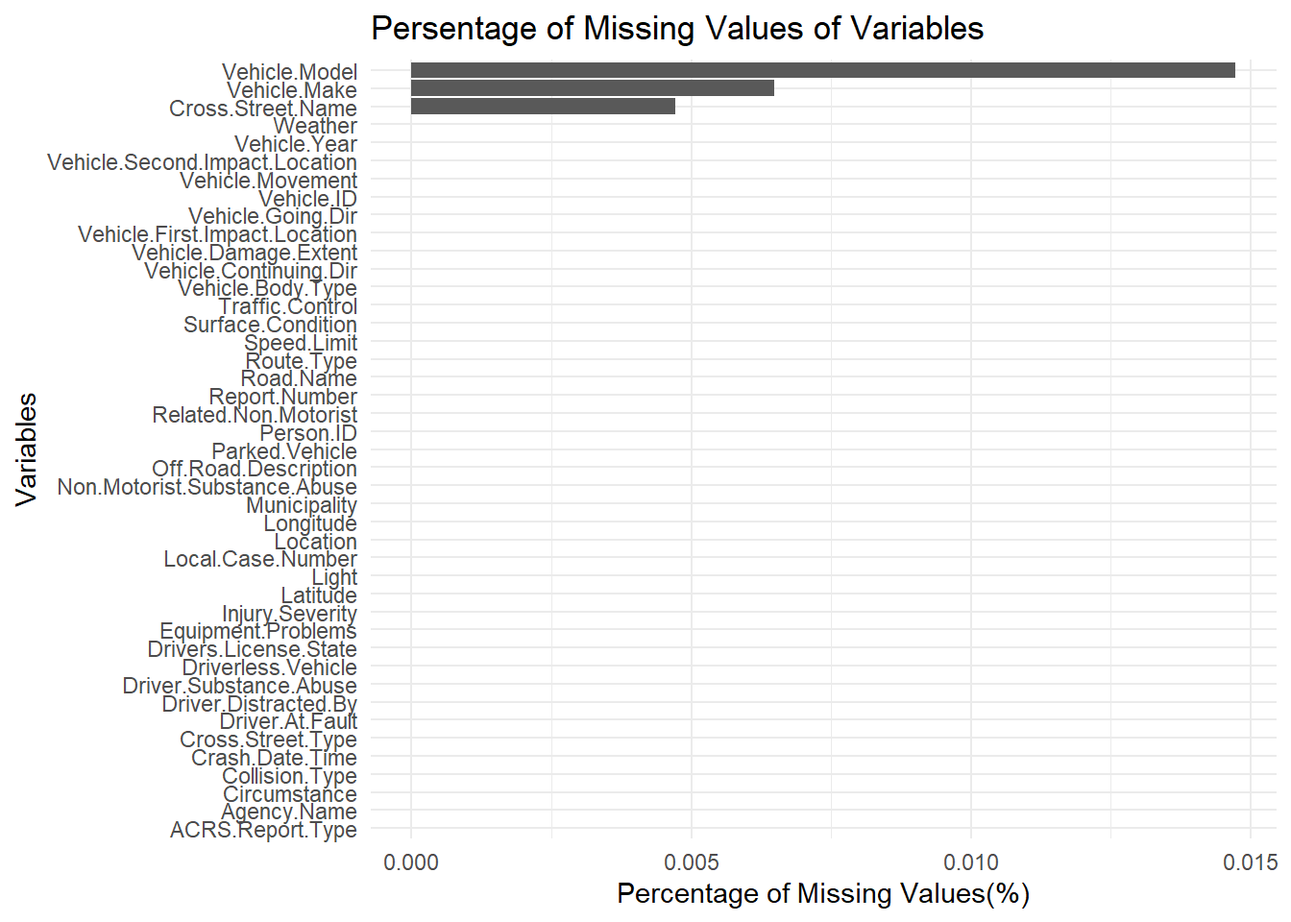
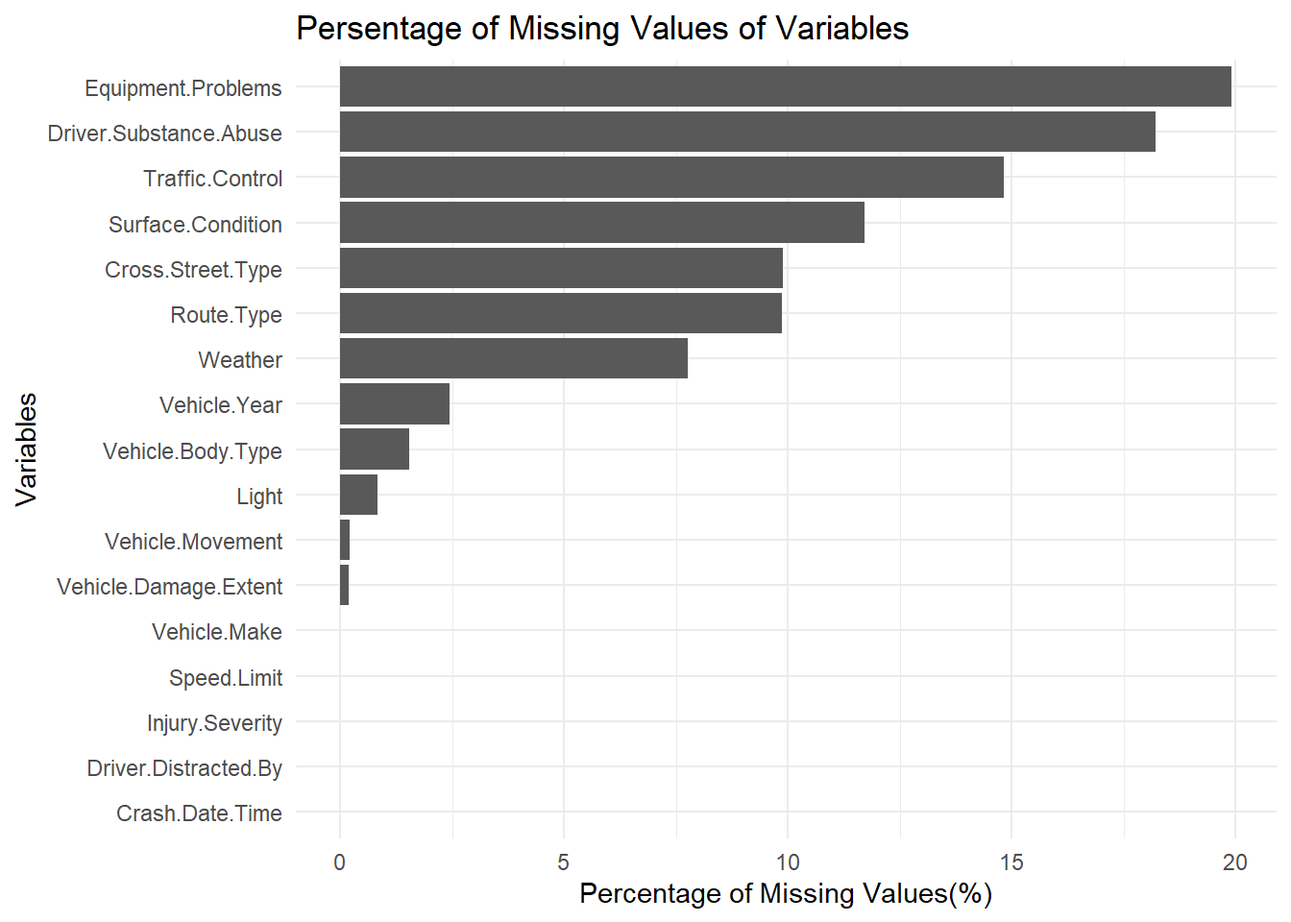
finish missing value analysis part~

diff --git a/docs/data.html b/docs/data.html
@@ -207,12 +207,12 @@ pre > code.sourceCode > span > a:first-child::before { text-decoration: underlin
 <p>For the proposed project, we plan to utilize a dataset called <em>Crash Reporting - Drivers Data</em> from DATA.GOV, available at <a href="https://catalog.data.gov/dataset/crash-reporting-drivers-data" class="uri">https://catalog.data.gov/dataset/crash-reporting-drivers-data</a>. This dataset is published and maintained by data.montgomerycountymd.gov and is updated weekly for analysis.</p>
 <p>The data collection process involves several local law enforcement agencies within Montgomery County, including the Montgomery County Police, Gaithersburg Police, Rockville Police, and the Maryland-National Capital Park Police. These agencies contribute to the Automated Crash Reporting System (ACRS) of the Maryland State Police, which compiles the data.</p>
 <p>The dataset comprises 169,760 rows and 43 columns. For our project, we have chosen the CSV format of the dataset. Meanwhile, other formats of the data such as RDF, JSON, XML, and a landing page format are also available on the source website. One significant aspect about the data is that it includes comprehensive details of vehicle conditions and road conditions in the reported traffic collisions.</p>
-<p>However, a known issue with the dataset is that it contains both verified and unverified collision data. Such discrepancies can lead to biases or inaccuracies in analyzing and interpreting different variables. Another potential issue of the data after examination was the mismatch between the <em>ACRS Report Type</em> and the <em>Injury Severity</em> columns. For example, an incident was classified as <em>Injury Crash</em> in the <em>ACRS Report Type</em> but in the <em>Injury Severity</em> it is marked as <em>NO APPARENT INJURY</em>. Such mismatches lead us to the decision of using <em>Injury Severity</em> as it provides more specific and accurate information about the car crash.</p>
+<p>However, a known issue with the dataset is that it contains both verified and unverified collision data. Such discrepancies can lead to biases or inaccuracies in analyzing and interpreting different variables. Another potential issue of the data after examination was the mismatch between the <em>ACRS Report Type</em> and the <em>Injury Severity</em> columns. For example, an incident was classified as <em>Injury Crash</em> in the <em>ACRS Report Type</em> but in the <em>Injury Severity</em> it is marked as <em>NO APPARENT INJURY</em>. Such mismatches lead us to the decision of using <em>Injury Severity</em> as it provides more specific and accurate information about the car crash. Also, in <em>Vehicle Year</em> column, there are abnormal data value such as <em>0</em>, <em>9999</em>, <em>2024</em>. These are likely to be incorrect values due to manual input or missing data, so we choose to treat those abnormal data as missing value.</p>
 <p>To import the dataset into an R environment for analysis, we will use the following R script:</p>
 <div class="cell">
 <details>
 <summary>Code</summary>
-<div class="sourceCode cell-code" id="cb1"><pre class="sourceCode r code-with-copy"><code class="sourceCode r"><span id="cb1-1"><a href="#cb1-1" aria-hidden="true" tabindex="-1"></a>data <span class="ot">&lt;-</span> <span class="fu">read.csv</span>(<span class="st">"data/Crash_Reporting_-_Drivers_Data.csv"</span>, <span class="at">header =</span> <span class="cn">TRUE</span>, <span class="at">sep=</span><span class="st">","</span>)</span>
+<div class="sourceCode cell-code" id="cb1"><pre class="sourceCode r code-with-copy"><code class="sourceCode r"><span id="cb1-1"><a href="#cb1-1" aria-hidden="true" tabindex="-1"></a>data <span class="ot">&lt;-</span> <span class="fu">read.csv</span>(<span class="st">"data/Crash_Reporting_-_Drivers_Data.csv"</span>, <span class="at">header =</span> <span class="cn">TRUE</span>, <span class="at">sep=</span><span class="st">","</span>,<span class="at">na.strings=</span><span class="fu">c</span>(<span class="st">""</span>,<span class="st">"N/A"</span>))</span>
 <span id="cb1-2"><a href="#cb1-2" aria-hidden="true" tabindex="-1"></a><span class="fu">head</span>(data)</span></code><button title="Copy to Clipboard" class="code-copy-button"><i class="bi"></i></button></pre></div>
 </details>
 <div class="cell-output cell-output-stdout">
@@ -224,40 +224,40 @@ pre > code.sourceCode > span > a:first-child::before { text-decoration: underlin
 5    EJ78520081         230033429 Gaithersburg Police Depar
 6   MCP3163005L         230035071  Montgomery County Police
        ACRS.Report.Type        Crash.Date.Time       Route.Type
-1 Property Damage Crash 05/31/2019 03:00:00 PM                 
-2 Property Damage Crash 05/24/2019 05:00:00 PM                 
+1 Property Damage Crash 05/31/2019 03:00:00 PM             &lt;NA&gt;
+2 Property Damage Crash 05/24/2019 05:00:00 PM             &lt;NA&gt;
 3 Property Damage Crash 07/17/2023 10:45:00 AM           County
 4 Property Damage Crash 07/20/2023 11:40:00 PM Maryland (State)
 5 Property Damage Crash 07/13/2023 05:40:00 PM     Municipality
 6 Property Damage Crash 07/23/2023 03:55:00 PM Maryland (State)
           Road.Name Cross.Street.Type      Cross.Street.Name
-1                                                           
-2                                                           
+1              &lt;NA&gt;              &lt;NA&gt;                   &lt;NA&gt;
+2              &lt;NA&gt;              &lt;NA&gt;                   &lt;NA&gt;
 3      SELFRIDGE RD            County            RANDOLPH RD
 4 MUNCASTER MILL RD            County         SHADY GROVE RD
 5        PERRY PKWY           Unknown ENT TO SHOPPING CENTER
 6    ROCKVILLE PIKE            County           GROSVENOR LA
             Off.Road.Description Municipality Related.Non.Motorist
-1 PARKING LOT OF 3215 SPARTAN RD                                  
-2                    PARKING LOT                                  
-3                                         N/A                     
-4                                         N/A                     
-5                                         N/A                     
-6                                         N/A                     
+1 PARKING LOT OF 3215 SPARTAN RD         &lt;NA&gt;                 &lt;NA&gt;
+2                    PARKING LOT         &lt;NA&gt;                 &lt;NA&gt;
+3                           &lt;NA&gt;         &lt;NA&gt;                 &lt;NA&gt;
+4                           &lt;NA&gt;         &lt;NA&gt;                 &lt;NA&gt;
+5                           &lt;NA&gt;         &lt;NA&gt;                 &lt;NA&gt;
+6                           &lt;NA&gt;         &lt;NA&gt;                 &lt;NA&gt;
      Collision.Type Weather Surface.Condition          Light Traffic.Control
-1             OTHER   CLEAR                         DAYLIGHT             N/A
-2               N/A   CLEAR                         DAYLIGHT             N/A
+1             OTHER   CLEAR              &lt;NA&gt;       DAYLIGHT            &lt;NA&gt;
+2              &lt;NA&gt;   CLEAR              &lt;NA&gt;       DAYLIGHT            &lt;NA&gt;
 3             OTHER   CLEAR               DRY DARK LIGHTS ON  TRAFFIC SIGNAL
-4             OTHER     N/A               DRY DARK LIGHTS ON  TRAFFIC SIGNAL
-5 SAME DIR REAR END     N/A               DRY       DAYLIGHT     NO CONTROLS
+4             OTHER    &lt;NA&gt;               DRY DARK LIGHTS ON  TRAFFIC SIGNAL
+5 SAME DIR REAR END    &lt;NA&gt;               DRY       DAYLIGHT     NO CONTROLS
 6 SAME DIR REAR END   CLEAR               DRY       DAYLIGHT  TRAFFIC SIGNAL
   Driver.Substance.Abuse Non.Motorist.Substance.Abuse
-1                UNKNOWN                             
-2                    N/A                             
-3                UNKNOWN                             
-4                    N/A                             
-5                    N/A                             
-6                    N/A                             
+1                UNKNOWN                         &lt;NA&gt;
+2                   &lt;NA&gt;                         &lt;NA&gt;
+3                UNKNOWN                         &lt;NA&gt;
+4                   &lt;NA&gt;                         &lt;NA&gt;
+5                   &lt;NA&gt;                         &lt;NA&gt;
+6                   &lt;NA&gt;                         &lt;NA&gt;
                              Person.ID Driver.At.Fault    Injury.Severity
 1 DE2A24CD-7919-4F8D-BABF-5B75CE12D21E             Yes NO APPARENT INJURY
 2 6208FA7B-5DC4-4B54-AD60-0C06DFE2AE81             Yes NO APPARENT INJURY
@@ -266,12 +266,12 @@ pre > code.sourceCode > span > a:first-child::before { text-decoration: underlin
 5 3C7F6951-1701-44DC-9824-88DF4E32352E             Yes NO APPARENT INJURY
 6 A06FADE9-E491-4584-BF35-6206D3D4CE09              No NO APPARENT INJURY
   Circumstance           Driver.Distracted.By Drivers.License.State
-1          N/A                        UNKNOWN                      
-2          N/A                 NOT DISTRACTED                    XX
-3          N/A INATTENTIVE OR LOST IN THOUGHT                    MD
-4          N/A                 NOT DISTRACTED                    MD
-5          N/A         LOOKED BUT DID NOT SEE                    MD
-6          N/A                 NOT DISTRACTED                    MD
+1         &lt;NA&gt;                        UNKNOWN                  &lt;NA&gt;
+2         &lt;NA&gt;                 NOT DISTRACTED                    XX
+3         &lt;NA&gt; INATTENTIVE OR LOST IN THOUGHT                    MD
+4         &lt;NA&gt;                 NOT DISTRACTED                    MD
+5         &lt;NA&gt;         LOOKED BUT DID NOT SEE                    MD
+6         &lt;NA&gt;                 NOT DISTRACTED                    MD
                             Vehicle.ID Vehicle.Damage.Extent
 1 165AD539-A8C8-4004-AF73-B7DCAAA8B3CC           SUPERFICIAL
 2 10239493-D667-42F9-A3D2-820FE184CB6C            FUNCTIONAL
@@ -302,11 +302,11 @@ pre > code.sourceCode > span > a:first-child::before { text-decoration: underlin
 6                  South             South          35                 No
   Parked.Vehicle Vehicle.Year Vehicle.Make Vehicle.Model Equipment.Problems
 1             No         2004        HONDA            TK            UNKNOWN
-2             No            0          UNK           UNK                N/A
+2             No            0          UNK           UNK               &lt;NA&gt;
 3             No         2003         FORD            TK          NO MISUSE
 4             No         2023         TOYT            CP          NO MISUSE
-5             No         2001     KENWORTH         TRUCK                N/A
-6             No         2014        HONDA         CIVIC                N/A
+5             No         2001     KENWORTH         TRUCK               &lt;NA&gt;
+6             No         2014        HONDA         CIVIC               &lt;NA&gt;
   Latitude Longitude                    Location
 1 39.15004 -77.06309 (39.15004368, -77.06308884)
 2 39.19905 -77.25074 (39.19904667, -77.25074333)
@@ -380,6 +380,7 @@ pre > code.sourceCode > span > a:first-child::before { text-decoration: underlin
 </section>
 <section id="missing-value-analysis" class="level2" data-number="2.3">
 <h2 data-number="2.3" class="anchored" data-anchor-id="missing-value-analysis"><span class="header-section-number">2.3</span> Missing value analysis</h2>
+<p>We will initially refine our dataset to include only the variables of interest. To analyze and interpret missing values, we will employ bar charts to visualize the percentage of missing data and use the ‘plot missing’ function to identify any discernible patterns in the missing values.</p>
 <div class="cell">
 <details>
 <summary>Code</summary>
@@ -404,47 +405,87 @@ Attaching package: 'dplyr'</code></pre>
 <summary>Code</summary>
 <div class="sourceCode cell-code" id="cb7"><pre class="sourceCode r code-with-copy"><code class="sourceCode r"><span id="cb7-1"><a href="#cb7-1" aria-hidden="true" tabindex="-1"></a><span class="fu">library</span>(redav)</span>
 <span id="cb7-2"><a href="#cb7-2" aria-hidden="true" tabindex="-1"></a></span>
-<span id="cb7-3"><a href="#cb7-3" aria-hidden="true" tabindex="-1"></a>missing_value <span class="ot">&lt;-</span> <span class="fu">colSums</span>(<span class="fu">is.na</span>(data))<span class="sc">/</span><span class="fu">dim</span>(data)[<span class="dv">1</span>]<span class="sc">*</span><span class="dv">100</span> <span class="sc">|&gt;</span> </span>
-<span id="cb7-4"><a href="#cb7-4" aria-hidden="true" tabindex="-1"></a>  <span class="fu">sort</span>(<span class="at">decreasing =</span> <span class="cn">TRUE</span>)</span>
-<span id="cb7-5"><a href="#cb7-5" aria-hidden="true" tabindex="-1"></a></span>
-<span id="cb7-6"><a href="#cb7-6" aria-hidden="true" tabindex="-1"></a>missing_data_df <span class="ot">&lt;-</span> <span class="fu">data.frame</span>(</span>
-<span id="cb7-7"><a href="#cb7-7" aria-hidden="true" tabindex="-1"></a>  <span class="at">Column =</span> <span class="fu">names</span>(missing_value),</span>
-<span id="cb7-8"><a href="#cb7-8" aria-hidden="true" tabindex="-1"></a>  <span class="at">NAs =</span> missing_value</span>
-<span id="cb7-9"><a href="#cb7-9" aria-hidden="true" tabindex="-1"></a>)</span>
-<span id="cb7-10"><a href="#cb7-10" aria-hidden="true" tabindex="-1"></a></span>
-<span id="cb7-11"><a href="#cb7-11" aria-hidden="true" tabindex="-1"></a><span class="fu">ggplot</span>(missing_data_df, <span class="fu">aes</span>(<span class="at">x =</span> <span class="fu">reorder</span>(Column, NAs), <span class="at">y =</span> NAs)) <span class="sc">+</span></span>
-<span id="cb7-12"><a href="#cb7-12" aria-hidden="true" tabindex="-1"></a>  <span class="fu">geom_bar</span>(<span class="at">stat =</span> <span class="st">"identity"</span>) <span class="sc">+</span></span>
-<span id="cb7-13"><a href="#cb7-13" aria-hidden="true" tabindex="-1"></a>  <span class="fu">theme_minimal</span>() <span class="sc">+</span></span>
-<span id="cb7-14"><a href="#cb7-14" aria-hidden="true" tabindex="-1"></a>  <span class="fu">labs</span>(<span class="at">x =</span> <span class="st">"Variables"</span>, <span class="at">y =</span> <span class="st">"Percentage of Missing Values(%)"</span>, <span class="at">title =</span> <span class="st">"Persentage of Missing Values of Variables"</span>) <span class="sc">+</span></span>
-<span id="cb7-15"><a href="#cb7-15" aria-hidden="true" tabindex="-1"></a>  <span class="fu">coord_flip</span>()</span></code><button title="Copy to Clipboard" class="code-copy-button"><i class="bi"></i></button></pre></div>
+<span id="cb7-3"><a href="#cb7-3" aria-hidden="true" tabindex="-1"></a><span class="co"># refine dataset</span></span>
+<span id="cb7-4"><a href="#cb7-4" aria-hidden="true" tabindex="-1"></a>columns <span class="ot">=</span> <span class="fu">c</span>(<span class="st">"Crash.Date.Time"</span>, <span class="st">"Route.Type"</span>, <span class="st">"Cross.Street.Type"</span>,</span>
+<span id="cb7-5"><a href="#cb7-5" aria-hidden="true" tabindex="-1"></a>                  <span class="st">"Weather"</span>, <span class="st">"Surface.Condition"</span>, <span class="st">"Light"</span>, </span>
+<span id="cb7-6"><a href="#cb7-6" aria-hidden="true" tabindex="-1"></a>                  <span class="st">"Traffic.Control"</span>, <span class="st">"Driver.Substance.Abuse"</span>, </span>
+<span id="cb7-7"><a href="#cb7-7" aria-hidden="true" tabindex="-1"></a>                  <span class="st">"Injury.Severity"</span>, <span class="st">"Driver.Distracted.By"</span>, </span>
+<span id="cb7-8"><a href="#cb7-8" aria-hidden="true" tabindex="-1"></a>                  <span class="st">"Vehicle.Damage.Extent"</span>, <span class="st">"Vehicle.Body.Type"</span>, </span>
+<span id="cb7-9"><a href="#cb7-9" aria-hidden="true" tabindex="-1"></a>                  <span class="st">"Vehicle.Movement"</span>, <span class="st">"Speed.Limit"</span>, <span class="st">"Vehicle.Year"</span>, </span>
+<span id="cb7-10"><a href="#cb7-10" aria-hidden="true" tabindex="-1"></a>                  <span class="st">"Vehicle.Make"</span>, <span class="st">"Equipment.Problems"</span>)</span>
+<span id="cb7-11"><a href="#cb7-11" aria-hidden="true" tabindex="-1"></a>data_refined <span class="ot">=</span> data[columns]</span>
+<span id="cb7-12"><a href="#cb7-12" aria-hidden="true" tabindex="-1"></a></span>
+<span id="cb7-13"><a href="#cb7-13" aria-hidden="true" tabindex="-1"></a><span class="co"># make abnormal data in 'Vehicle.Year' to NAs</span></span>
+<span id="cb7-14"><a href="#cb7-14" aria-hidden="true" tabindex="-1"></a>data_refined <span class="ot">&lt;-</span> data_refined <span class="sc">%&gt;%</span></span>
+<span id="cb7-15"><a href="#cb7-15" aria-hidden="true" tabindex="-1"></a>  <span class="fu">mutate</span>(<span class="at">Vehicle.Year =</span> <span class="fu">if_else</span>(Vehicle.Year <span class="sc">&lt;</span> <span class="dv">1900</span> <span class="sc">|</span> Vehicle.Year <span class="sc">&gt;</span> <span class="dv">2023</span>, <span class="cn">NA_real_</span>, Vehicle.Year))</span>
+<span id="cb7-16"><a href="#cb7-16" aria-hidden="true" tabindex="-1"></a></span>
+<span id="cb7-17"><a href="#cb7-17" aria-hidden="true" tabindex="-1"></a><span class="co"># analysis missing value</span></span>
+<span id="cb7-18"><a href="#cb7-18" aria-hidden="true" tabindex="-1"></a>missing_value <span class="ot">&lt;-</span> <span class="fu">colSums</span>(<span class="fu">is.na</span>(data_refined))<span class="sc">/</span><span class="fu">dim</span>(data_refined)[<span class="dv">1</span>]<span class="sc">*</span><span class="dv">100</span> <span class="sc">|&gt;</span> </span>
+<span id="cb7-19"><a href="#cb7-19" aria-hidden="true" tabindex="-1"></a>  <span class="fu">sort</span>(<span class="at">decreasing =</span> <span class="cn">TRUE</span>)</span>
+<span id="cb7-20"><a href="#cb7-20" aria-hidden="true" tabindex="-1"></a></span>
+<span id="cb7-21"><a href="#cb7-21" aria-hidden="true" tabindex="-1"></a>missing_data_df <span class="ot">&lt;-</span> <span class="fu">data.frame</span>(</span>
+<span id="cb7-22"><a href="#cb7-22" aria-hidden="true" tabindex="-1"></a>  <span class="at">Column =</span> <span class="fu">names</span>(missing_value),</span>
+<span id="cb7-23"><a href="#cb7-23" aria-hidden="true" tabindex="-1"></a>  <span class="at">NAs =</span> missing_value</span>
+<span id="cb7-24"><a href="#cb7-24" aria-hidden="true" tabindex="-1"></a>)</span>
+<span id="cb7-25"><a href="#cb7-25" aria-hidden="true" tabindex="-1"></a></span>
+<span id="cb7-26"><a href="#cb7-26" aria-hidden="true" tabindex="-1"></a><span class="co"># plot percentage of missing value</span></span>
+<span id="cb7-27"><a href="#cb7-27" aria-hidden="true" tabindex="-1"></a><span class="fu">ggplot</span>(missing_data_df, <span class="fu">aes</span>(<span class="at">x =</span> <span class="fu">reorder</span>(Column, NAs), <span class="at">y =</span> NAs)) <span class="sc">+</span></span>
+<span id="cb7-28"><a href="#cb7-28" aria-hidden="true" tabindex="-1"></a>  <span class="fu">geom_bar</span>(<span class="at">stat =</span> <span class="st">"identity"</span>) <span class="sc">+</span></span>
+<span id="cb7-29"><a href="#cb7-29" aria-hidden="true" tabindex="-1"></a>  <span class="fu">theme_minimal</span>() <span class="sc">+</span></span>
+<span id="cb7-30"><a href="#cb7-30" aria-hidden="true" tabindex="-1"></a>  <span class="fu">labs</span>(<span class="at">x =</span> <span class="st">"Variables"</span>, <span class="at">y =</span> <span class="st">"Percentage of Missing Values(%)"</span>, <span class="at">title =</span> <span class="st">"Persentage of Missing Values of Variables"</span>) <span class="sc">+</span></span>
+<span id="cb7-31"><a href="#cb7-31" aria-hidden="true" tabindex="-1"></a>  <span class="fu">coord_flip</span>()</span></code><button title="Copy to Clipboard" class="code-copy-button"><i class="bi"></i></button></pre></div>
 </details>
 <div class="cell-output-display">
 <p><img src="data_files/figure-html/unnamed-chunk-2-1.png" class="img-fluid" width="672"></p>
 </div>
+</div>
+<p>From the bar chart, it is evident that all the variables of interest have less than 20% missing values. Notably, <em>Equipment.Problems</em> and <em>Driver.Substance.Abuse</em> exhibit relatively higher percentages of missing values, each exceeding 15%. The majority of the variables demonstrate relatively complete data values.</p>
+<p>To enhance our visual analysis of the missing value patterns, we have selected a random subset of 1,000 rows and used numerical value to map the name of variables. This sample will help us more clearly discern any underlying trends in the missing value.</p>
+<div class="cell">
 <details>
 <summary>Code</summary>
-<div class="sourceCode cell-code" id="cb8"><pre class="sourceCode r code-with-copy"><code class="sourceCode r"><span id="cb8-1"><a href="#cb8-1" aria-hidden="true" tabindex="-1"></a>column_pruned <span class="ot">=</span> <span class="fu">c</span>(<span class="st">"Crash.Date.Time"</span>, <span class="st">"Route.Type"</span>, <span class="st">"Cross.Street.Type"</span>,</span>
-<span id="cb8-2"><a href="#cb8-2" aria-hidden="true" tabindex="-1"></a>                  <span class="st">"Weather"</span>, <span class="st">"Surface.Condition"</span>, <span class="st">"Light"</span>, </span>
-<span id="cb8-3"><a href="#cb8-3" aria-hidden="true" tabindex="-1"></a>                  <span class="st">"Traffic.Control"</span>, <span class="st">"Driver.Substance.Abuse"</span>, </span>
-<span id="cb8-4"><a href="#cb8-4" aria-hidden="true" tabindex="-1"></a>                  <span class="st">"Injury.Severity"</span>, <span class="st">"Driver.Distracted.By"</span>, </span>
-<span id="cb8-5"><a href="#cb8-5" aria-hidden="true" tabindex="-1"></a>                  <span class="st">"Vehicle.Damage.Extent"</span>, <span class="st">"Vehicle.Body.Type"</span>, </span>
-<span id="cb8-6"><a href="#cb8-6" aria-hidden="true" tabindex="-1"></a>                  <span class="st">"Vehicle.Movement"</span>, <span class="st">"Speed.Limit"</span>, <span class="st">"Vehicle.Year"</span>, </span>
-<span id="cb8-7"><a href="#cb8-7" aria-hidden="true" tabindex="-1"></a>                  <span class="st">"Vehicle.Make"</span>, <span class="st">"Equipment.Problems"</span>)</span>
-<span id="cb8-8"><a href="#cb8-8" aria-hidden="true" tabindex="-1"></a>data_pruned <span class="ot">=</span> data[column_pruned]</span>
-<span id="cb8-9"><a href="#cb8-9" aria-hidden="true" tabindex="-1"></a><span class="fu">plot_missing</span>(data_pruned, <span class="at">percent =</span> <span class="cn">TRUE</span>)</span></code><button title="Copy to Clipboard" class="code-copy-button"><i class="bi"></i></button></pre></div>
+<div class="sourceCode cell-code" id="cb8"><pre class="sourceCode r code-with-copy"><code class="sourceCode r"><span id="cb8-1"><a href="#cb8-1" aria-hidden="true" tabindex="-1"></a>column_mapping <span class="ot">&lt;-</span> <span class="fu">setNames</span>(<span class="fu">seq_along</span>(columns), columns)</span>
+<span id="cb8-2"><a href="#cb8-2" aria-hidden="true" tabindex="-1"></a><span class="fu">names</span>(data_refined) <span class="ot">&lt;-</span> column_mapping[<span class="fu">names</span>(data_refined)]</span>
+<span id="cb8-3"><a href="#cb8-3" aria-hidden="true" tabindex="-1"></a>sampled_data <span class="ot">&lt;-</span> <span class="fu">sample_n</span>(data_refined, <span class="dv">500</span>)</span>
+<span id="cb8-4"><a href="#cb8-4" aria-hidden="true" tabindex="-1"></a>column_mapping_table <span class="ot">&lt;-</span> <span class="fu">data.frame</span>(</span>
+<span id="cb8-5"><a href="#cb8-5" aria-hidden="true" tabindex="-1"></a>  <span class="at">OriginalName =</span> <span class="fu">names</span>(column_mapping),</span>
+<span id="cb8-6"><a href="#cb8-6" aria-hidden="true" tabindex="-1"></a>  <span class="at">NumericIdentifier =</span> column_mapping,</span>
+<span id="cb8-7"><a href="#cb8-7" aria-hidden="true" tabindex="-1"></a>  <span class="at">row.names =</span> <span class="cn">NULL</span>,</span>
+<span id="cb8-8"><a href="#cb8-8" aria-hidden="true" tabindex="-1"></a>  <span class="at">stringsAsFactors =</span> <span class="cn">FALSE</span>  <span class="co"># to keep the column names as strings</span></span>
+<span id="cb8-9"><a href="#cb8-9" aria-hidden="true" tabindex="-1"></a>)</span>
+<span id="cb8-10"><a href="#cb8-10" aria-hidden="true" tabindex="-1"></a><span class="fu">print</span>(column_mapping)</span></code><button title="Copy to Clipboard" class="code-copy-button"><i class="bi"></i></button></pre></div>
+</details>
+<div class="cell-output cell-output-stdout">
+<pre><code>       Crash.Date.Time             Route.Type      Cross.Street.Type 
+                     1                      2                      3 
+               Weather      Surface.Condition                  Light 
+                     4                      5                      6 
+       Traffic.Control Driver.Substance.Abuse        Injury.Severity 
+                     7                      8                      9 
+  Driver.Distracted.By  Vehicle.Damage.Extent      Vehicle.Body.Type 
+                    10                     11                     12 
+      Vehicle.Movement            Speed.Limit           Vehicle.Year 
+                    13                     14                     15 
+          Vehicle.Make     Equipment.Problems 
+                    16                     17 </code></pre>
+</div>
+<details>
+<summary>Code</summary>
+<div class="sourceCode cell-code" id="cb10"><pre class="sourceCode r code-with-copy"><code class="sourceCode r"><span id="cb10-1"><a href="#cb10-1" aria-hidden="true" tabindex="-1"></a><span class="fu">options</span>(<span class="at">repr.plot.width =</span> <span class="dv">2</span>, <span class="at">repr.plot.height =</span> <span class="dv">5</span>) </span>
+<span id="cb10-2"><a href="#cb10-2" aria-hidden="true" tabindex="-1"></a><span class="fu">plot_missing</span>(sampled_data, <span class="at">percent =</span> <span class="cn">TRUE</span>)</span></code><button title="Copy to Clipboard" class="code-copy-button"><i class="bi"></i></button></pre></div>
 </details>
 <div class="cell-output cell-output-stderr">
 <pre><code>Scale for y is already present.
-Adding another scale for y, which will replace the existing scale.</code></pre>
-</div>
-<div class="cell-output cell-output-stderr">
-<pre><code>Scale for y is already present.
+Adding another scale for y, which will replace the existing scale.
+Scale for y is already present.
 Adding another scale for y, which will replace the existing scale.</code></pre>
 </div>
 <div class="cell-output-display">
-<p><img src="data_files/figure-html/unnamed-chunk-2-2.png" class="img-fluid" width="672"></p>
+<p><img src="data_files/figure-html/unnamed-chunk-3-1.png" class="img-fluid" width="672"></p>
 </div>
 </div>
+<p>From the graph, we can make following observation: Around 50% of the sample data has complete data value for all selected variable; Around 5% of the sample data only missed <em>Equipment.Problems</em>; Around 5% of the sample data only missed <em>Driver.Substance.Abuse</em>; Around 3% of the sample data only missed <em>Traffic.Control</em>; Around 3% of the sample data only missed <em>Weather</em>; Around 3% of the sample data missed both <em>Equipment.Problems</em> and <em>Driver.Substance.Abuse</em>; Around 2% of the sample data missed <em>Route.Type</em>, <em>Cross.Street.Type</em> and <em>Surface.Condition</em>; There are no other clear patterns of missing data.</p>
+<p>This pattern is reasonable since <em>Equipment.Problems</em>, <em>Driver.Substance.Abuse</em> and <em>Traffic.Control</em> are variables that has the most missing value. <em>Route.Type</em>, <em>Cross.Street.Type</em> and <em>Surface.Condition</em> are likely to missed together since those are all road condition information.</p>
 
 
 </section>

diff --git a/docs/index.html b/docs/index.html
@@ -190,7 +190,7 @@ ul.task-list li input[type="checkbox"] {
 <li><p><strong>Time Patterns</strong>: Are there specific times of day, days of the week, or months of the year when accidents are more frequent? This information can be useful for planning traffic management strategies and public awareness campaigns.</p></li>
 <li><p><strong>Collision Causes</strong>: What are the most common causes of collisions reported in the dataset? Understanding the primary causes (e.g., speeding, distracted driving, mechanical failures) can inform preventive measures and educational programs.</p></li>
 <li><p><strong>Impact of Weather and Road Conditions</strong>: How do different weather conditions or road environments affect the frequency and severity of accidents? This can help in planning for adverse weather conditions and improving road maintenance.</p></li>
-<li><p>Vehicle Types Involved: Are certain types of vehicles (e.g., motorcycles, trucks) more frequently involved in accidents? This can guide regulations and safety measures for different vehicle categories.</p></li>
+<li><p><strong>Vehicle Types Involved</strong>: Are certain types of vehicles (e.g., motorcycles, trucks) more frequently involved in accidents? This can guide regulations and safety measures for different vehicle categories.</p></li>
 </ol>
 
 
